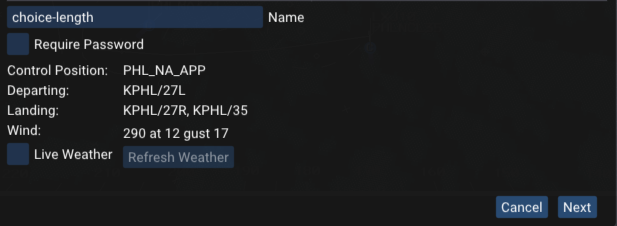
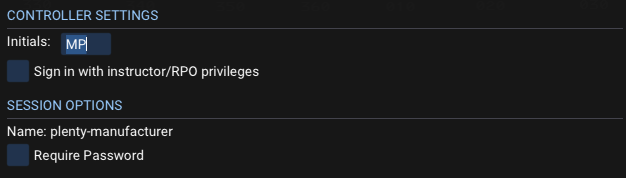
Update website/index.html and screenshots for new signin flow

Changed region(s): [[0.0, 0.0, 1.0, 1.0], [0.0, 0.7865, 0.2464, 0.9551]]

diff --git a/website/index.html b/website/index.html
@@ -353,7 +353,7 @@ A11, A80, A90, AAC, ABE, ABQ, AGS, ALB, ASE, AUS, AVL, BGR, BHM, BIL, BNA, BOI, 
               Here is an example:
             </p>
             <div class="text-center">
-              <img src="config.png" srcset="config-2x.png 2x" width="619" height="668" class="img-fluid" alt="configuration dialog box">
+              <img src="config.png" srcset="config-2x.png 2x" width="716" height="731">
             </div>
             <br>
             <p>After selecting an ARTCC, the available TRACONs and ATCT/TRACONs in that ARTCC are shown.
@@ -362,15 +362,15 @@ A11, A80, A90, AAC, ABE, ABQ, AGS, ALB, ASE, AUS, AVL, BGR, BHM, BIL, BNA, BOI, 
               button, a window with further settings is shown:
             </p>
             <div class="text-center">
-              <img src="config-rates.png" srcset="config-rates-2x.png 2x" width="518" height="485" class="img-fluid" alt="configuration rates dialog box">
+              <img src="config-rates.png" srcset="config-rates-2x.png 2x" width="576" height="612">
             </div>
             <br>
             <p>
-              In the second configuration window, you can set the airport departure rate (ADR)
-              for all of the airports that may have departures in the scenario as well as the airport arrival rate (AAR) for all of the
-              arrival airports.
+              In the second configuration window, you can specify your initials, used to identify yourself to other
+              controllers, as well as various additional settings.
+              You can also adjust how heavy the traffic is; here, the departure rate settings are shown.
               (The PHL scenario only includes the Philadelphia Airport, though many other scenarios include multiple airports.)
-              Both of these rates are specified in terms of aircraft per hour, so an ADR of 30 corresponds to one aircraft departing
+              These rates are specified in terms of aircraft per hour, so an ADR of 30 corresponds to one aircraft departing
               every two minutes (on average).
               If you'd like an arrival-only scenario, for example, just set all of the departure rates to zero.
             </p>
@@ -382,7 +382,7 @@ A11, A80, A90, AAC, ABE, ABQ, AGS, ALB, ASE, AUS, AVL, BGR, BHM, BIL, BNA, BOI, 
               before traffic returns to regular levels.
             </p>
             <p>
-              After you have configured the simulation, click "Ok" and you will have a STARS scope and flight strip window to work with.
+              After you have configured the simulation, click "Create" and you will have a STARS scope and flight strip window to work with.
               Use the usual STARS commands as appropriate (to initiate track, accept handoffs, handoff to other controllers, etc.),
               and the additional <a href="#atc-commands">ATC commands below</a> to issue control commands to aircraft.
             </p>
@@ -500,37 +500,44 @@ A11, A80, A90, AAC, ABE, ABQ, AGS, ALB, ASE, AUS, AVL, BGR, BHM, BIL, BNA, BOI, 
             <h2 class="section-heading">Multiple Controllers</h2>
 
             <p>With <i>vice</i> you can also have multiple controllers working aircraft together.
-              Select "Create multi-controller" in the "New Simulation" window and
+              Select "Create a sim on the public vice server" in the "New Simulation" window and
               you can select an ARTCC, ATCT/TRACON, and scenario in the same way
               that you do with a single controller.
               For multi-controller scenarios, there are some additional settings, shown beneath
               the list of scenarios:
             </p>
             <div class="text-center">
-              <img src="create-multi.png" srcset="create-multi-2x.png 2x" width="617" height="226" class="img-fluid" alt="create multi-controller window">
+              <img src="create-multi.png" srcset="create-multi-2x.png 2x" width="626" height="178">
             </div>
             <br>
             <p>
-              Each multi-controller simulation has a name associated with it;
-              <i>vice</i> chooses a random one by default (above, it's "choice-length").
-              You're welcome to choose a different name if you prefer.
+              If you sign in with instructor/RPO (remote pilot operator) privileges, then
+              you are able to issue control instructions to all aircraft.
+              Each multi-controller simulation also has a name associated with it;
+              <i>vice</i> chooses a random one (above, it's "plenty-manufacturer").
               These names can be used so that you can tell other people which
               simulation to choose in order to join you.
               You may also enable "Require password" and enter a password for the
               simulation so that only people you allow can join it.
             </p>
             <p>
-              Selecting "Join multi-controller" shows a list of the simulations
+              Selecting "Join a sim on the public vice server" shows a list of the simulations
               that are currently available, including how many controllers
               are signed into each one.
               Note that the simulation names are shown in the first column.
-              After selecting one, you can choose one of the available control
-              positions and join.
+              After selecting one, the currently unoccupied radar workstations (TCWs)
+              are shown, though if you select "Join as relief", you may connect to
+              a TCW that is already in use; this allows relieving another controller,
+              who may then disconnect after briefing you.
+              After selecting a TCW, you can select one or more terminal control positions (TCPs)
+              that you will be responsible for; your TCPs determine the airspace and which
+              handoff flows are your responsibility.
               <i>vice</i> also allows you to join a simulation as an observer,
-              in which case you have no control capabilities.
+              in which case you have no control capabilities; to do so, select a free TCW
+              and then do not select any TCPs.
             </p>
             <div class="text-center">
-              <img src="join-multi.jpg" srcset="join-multi-2x.jpg 2x" width="518" height="323" class="img-fluid" alt="create multi-controller window">
+              <img src="join-multi.png" srcset="join-multi-2x.png 2x" width="716" height="389">
             </div>
             <br>
 
